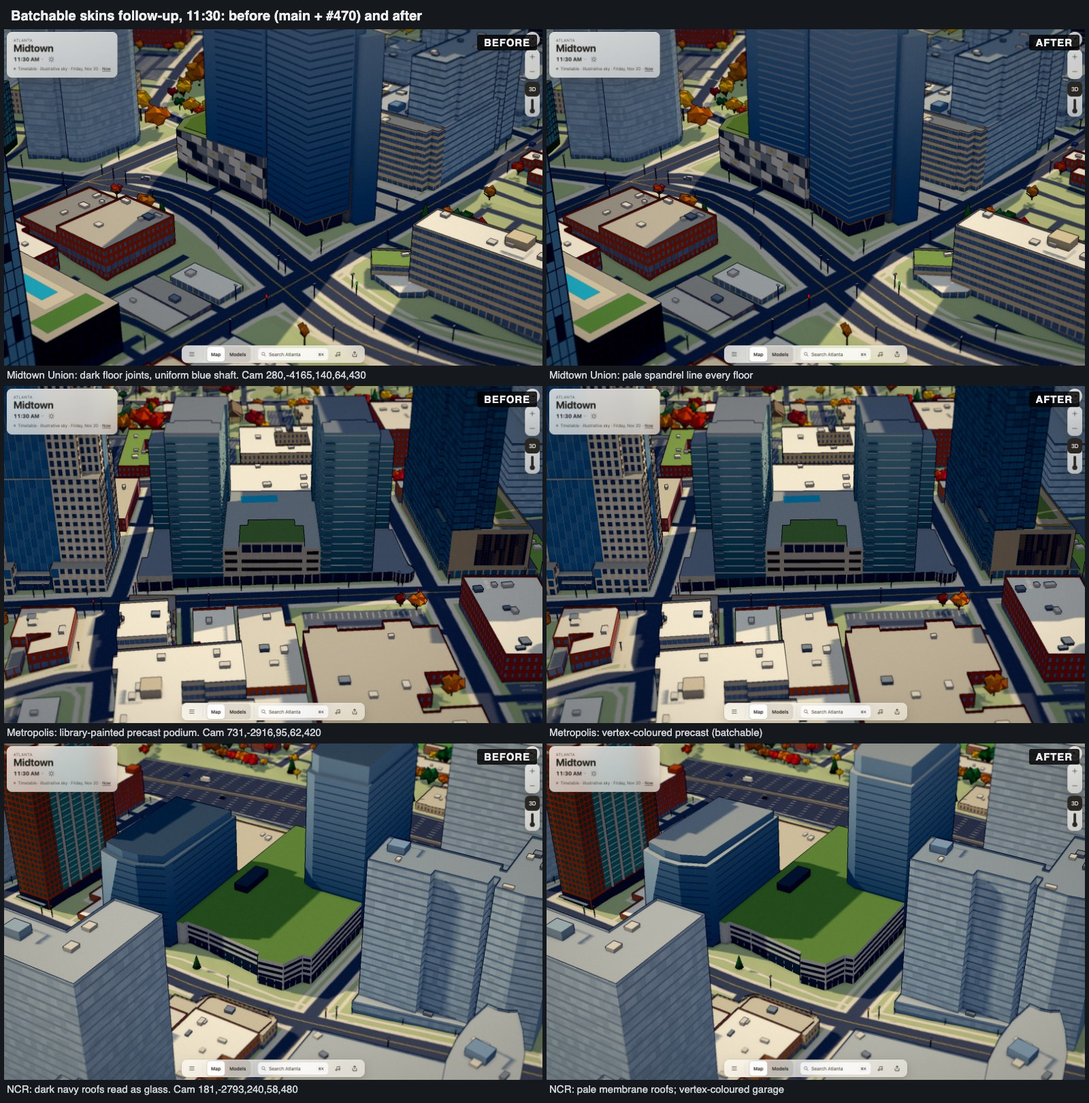
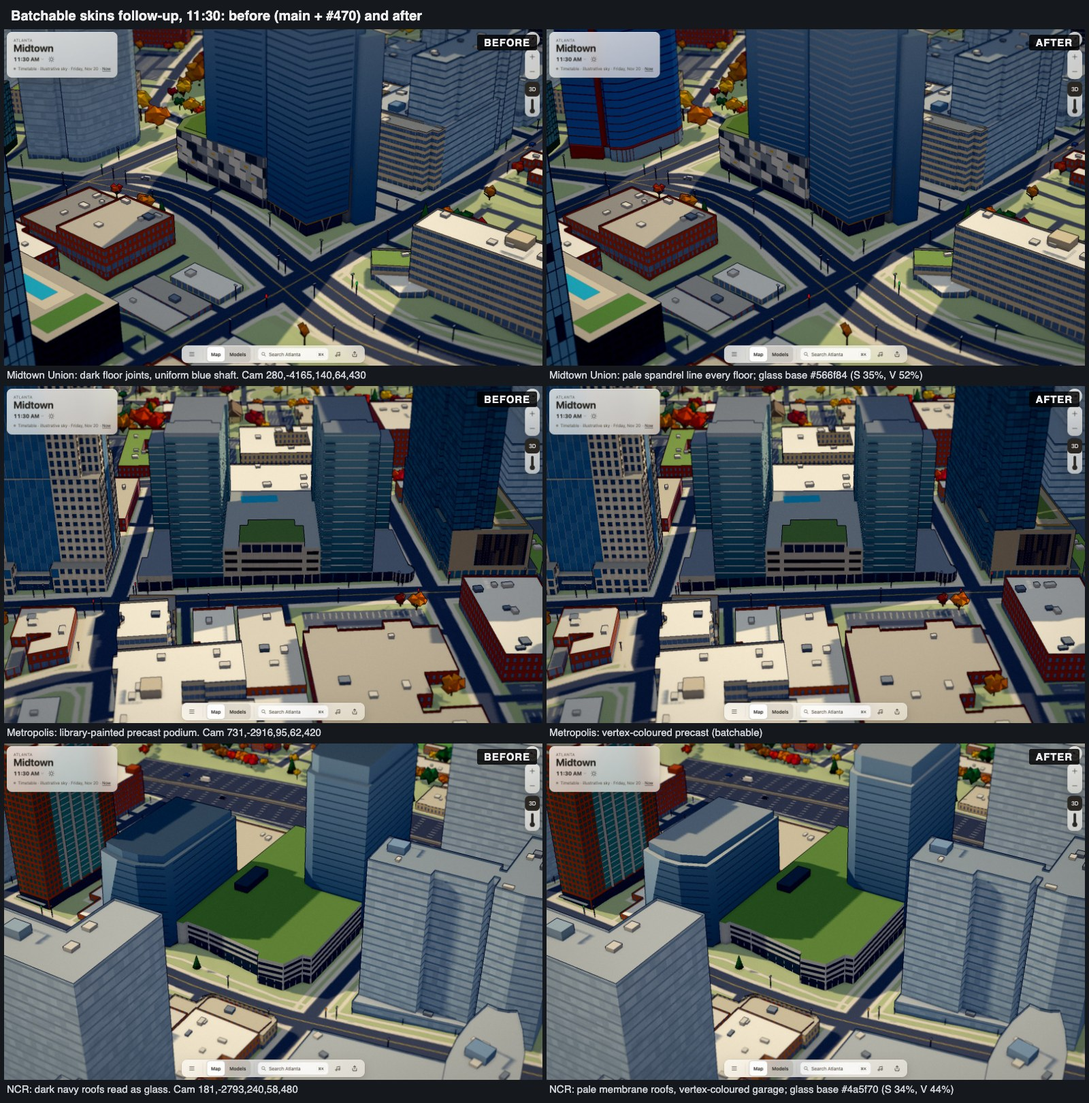
WIP glass

Changed region(s): [[0.5, 0.0309, 0.625, 0.1543], [0.7188, 0.9877, 0.875, 1.0]]

diff --git a/web/src/city/midtown-union.ts b/web/src/city/midtown-union.ts
@@ -18,7 +18,8 @@ const deckH = 28.8;
 const lobbyH = 8.4;
 
 // Reflective blue glass, darker at street level and picking up the sky near the top.
-const glassLow = ['#4f6b84', '#57728a', '#4b667f', '#536f87'];
+// Glass bases: HSV saturation 33–35%, value 50–54% (the provisional glass rules).
+const glassLow = ['#566f84', '#5d758a', '#53697f', '#5a7187'];
 const glassHigh = ['#a3b8c9', '#abbfce', '#9db3c5', '#b0c3d1'];
 // Mostly white and pale grey, crossed by charcoal diagonals.
 const panels = ['#e2e1dc', '#c9cac6', '#e2e1dc', '#a9acab', '#66696b'];
@@ -219,11 +220,7 @@ export function createMidtownUnion(buildings: VBuilding[], site: VBuilding, grid
     const lo = hex(glassLow[tone], glassHigh[tone], (y - floor) / 97.2), hi = hex(glassLow[tone], glassHigh[tone], (y + 2.8 - floor) / 97.2);
     for (let v = n; v < lights.pos.length; v += 3) lights.col.splice(v, 3, ...(lights.pos[v + 1] > y + 1 ? hi : lo));
   }
-  const result = shell.finish('#f4dcae', 0.6);
-  // The lamp quads share the body's shadow flags: they darken with shaded walls by day, and the
-  // landmark batcher draws both as one then.
-  result.group.children.forEach(m => { m.receiveShadow = m.castShadow = true; });
-  return result;
+  return shell.finish('#f4dcae', 0.6);
 }
 
 function hex(a: string, b: string, t: number): number[] {

diff --git a/web/src/city/ncr-hq.ts b/web/src/city/ncr-hq.ts
@@ -22,7 +22,8 @@ const heights = {
 };
 const lobby = 7.6, storey = (heights.tower - lobby) / 19;
 
-const glassLow = '#3f5a70', glassHigh = '#9ab3c6';
+// Glass base #4a5f70: HSV saturation 34%, value 44% (the provisional glass rules).
+const glassLow = '#4a5f70', glassHigh = '#9ab3c6';
 // The sloping facet reflects more sky than the vertical walls.
 const facetLow = '#6f8fa8', facetHigh = '#bfd2df';
 
@@ -155,8 +156,7 @@ export function createNcrHq(buildings: VBuilding[], site: VBuilding, grid: Groun
 
   const result = shell.finish('#f2dcb0', 0.6);
   // The lamp quads darken with the shaded wall they sit on, or they show as pale panes by day.
-  // Matching the body's shadow flags also lets the landmark batcher draw both as one by day.
-  result.group.children.forEach(m => { m.receiveShadow = m.castShadow = true; });
+  result.group.children.forEach(m => { m.receiveShadow = true; });
   return result;
 }
 

diff --git a/web/src/city/metropolis.test.ts b/web/src/city/metropolis.test.ts
@@ -27,11 +27,9 @@ it('raises both towers, the podium deck and the retail bases at their mapped hei
   const result = createMetropolis([site, other], site, flat)!;
   expect(result.buildings).toEqual([other]);
   result.group.updateMatrixWorld(true);
-  // Batchable: no hooked (library-painted) material, and the lamps share the body's shadow flags.
-  for (const m of result.group.children as Mesh[]) {
+  // Batchable: no hooked (library-painted) material.
+  for (const m of result.group.children as Mesh[])
     expect((m.material as Material).onBeforeCompile).toBe(Material.prototype.onBeforeCompile);
-    expect(m.castShadow && m.receiveShadow).toBe(true);
-  }
   const roof = (x: number, z: number) =>
     new Raycaster(new Vector3(x, 500, z), new Vector3(0, -1, 0)).intersectObject(result.group)[0]?.point.y + 300;
   expect(roof(704, -2885)).toBeCloseTo(270 + 75.6, 1); // south tower, Peachtree slice

diff --git a/web/src/city/midtown-union.test.ts b/web/src/city/midtown-union.test.ts
@@ -28,11 +28,9 @@ it('stands the glass shaft on the mapped parts over the 17th Street garage', () 
   const result = createMidtownUnion([site, other], site, grid)!;
   expect(result.buildings).toEqual([other]);
   result.group.updateMatrixWorld(true);
-  // Batchable: no hooked (library-painted) material, and the lamps share the body's shadow flags.
-  for (const m of result.group.children as Mesh[]) {
+  // Batchable: no hooked (library-painted) material.
+  for (const m of result.group.children as Mesh[])
     expect((m.material as Material).onBeforeCompile).toBe(Material.prototype.onBeforeCompile);
-    expect(m.castShadow && m.receiveShadow).toBe(true);
-  }
   const roof = (x: number, z: number) =>
     new Raycaster(new Vector3(x, 500, z), new Vector3(0, -1, 0)).intersectObject(result.group)[0]?.point.y + 300;
   // Floor is the lowest grade less 0.35 m plus 0.35 m: 270 m NAVD88.

diff --git a/web/src/city/ncr-hq.test.ts b/web/src/city/ncr-hq.test.ts
@@ -27,11 +27,9 @@ it('stands both towers at their lidar roofs over the sky-garden base, with the s
   expect(result.buildings).toEqual([other]);
   expect(result.group.children.every(m => m.receiveShadow)).toBe(true);
   result.group.updateMatrixWorld(true);
-  // Batchable: no hooked (library-painted) material, and the lamps share the body's shadow flags.
-  for (const m of result.group.children as Mesh[]) {
+  // Batchable: no hooked (library-painted) material.
+  for (const m of result.group.children as Mesh[])
     expect((m.material as Material).onBeforeCompile).toBe(Material.prototype.onBeforeCompile);
-    expect(m.castShadow && m.receiveShadow).toBe(true);
-  }
   const roof = (x: number, z: number) =>
     new Raycaster(new Vector3(x, 500, z), new Vector3(0, -1, 0)).intersectObject(result.group)[0]?.point.y + 300;
   const floor = 285;

diff --git a/web/src/city/metropolis.ts b/web/src/city/metropolis.ts
@@ -166,7 +166,6 @@ export function createMetropolis(buildings: VBuilding[], site: VBuilding, grid: 
   }
   const result = shell.finish('#f2d3a2', 0.62);
   // By day the lamp quads must darken with the shaded wall they sit on, or they show as panes.
-  // Matching the body's shadow flags also lets the landmark batcher draw both as one by day.
-  result.group.children.forEach(m => { m.receiveShadow = m.castShadow = true; });
+  result.group.children.forEach(m => { m.receiveShadow = true; });
   return result;
 }
